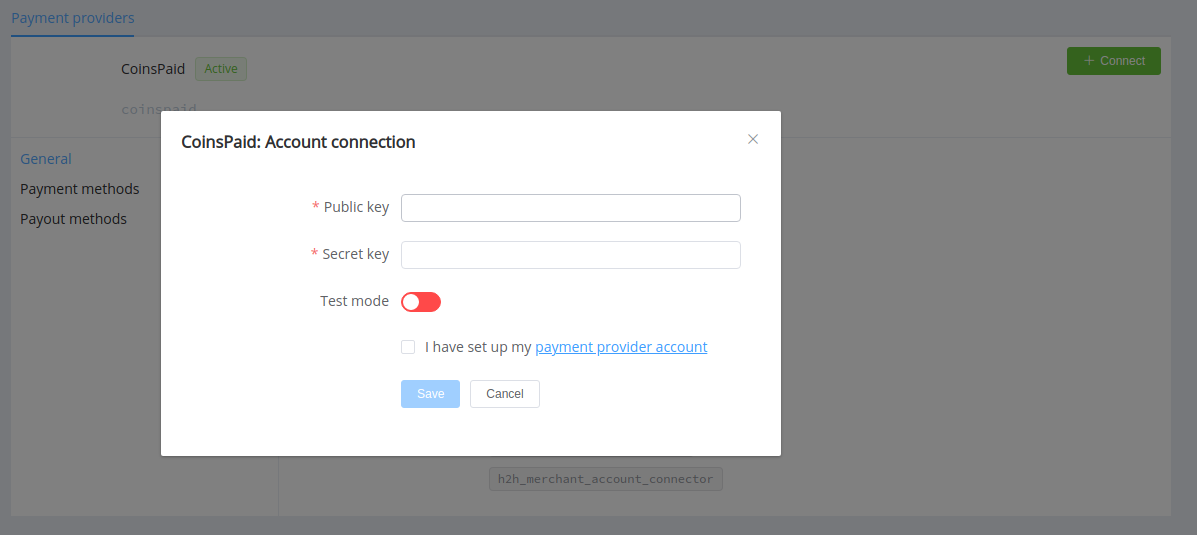
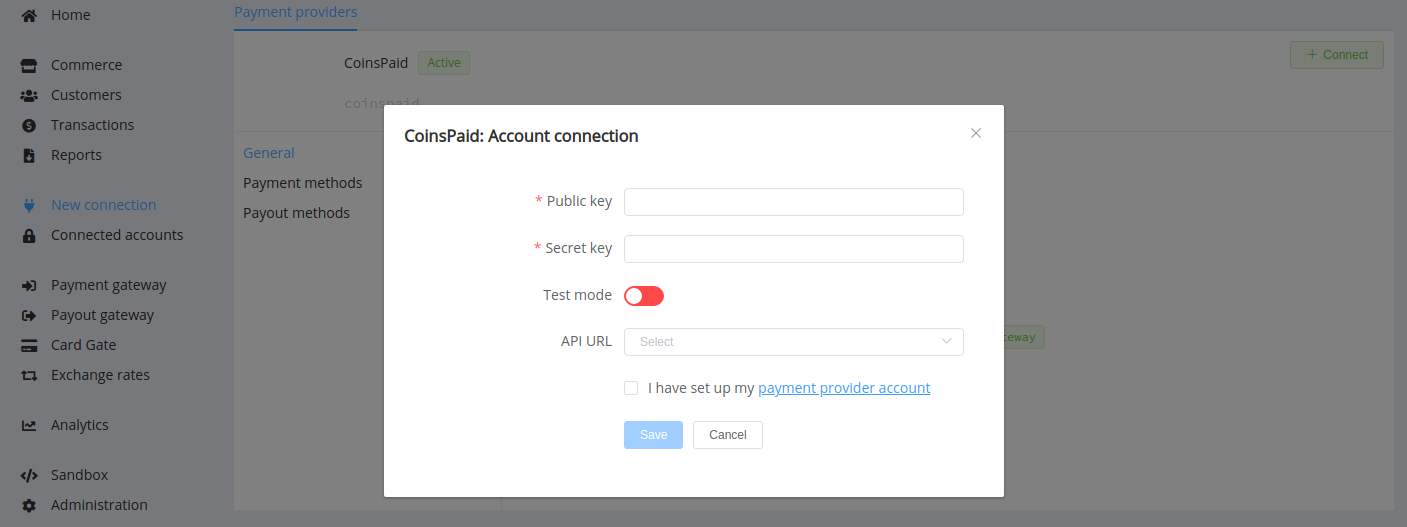
edit RN 1.28

diff --git a/docs/connectors/index.md b/docs/connectors/index.md
@@ -13,7 +13,7 @@ Click on the name of the desired connector and follow the link to the step-by-st
 
 ## List of Ready-Made Connections
 
-<!-- 23/12/2020: 97 connectors + Test + manual
+<!-- 18/01/2021: 100 connectors + Test + manual
 |                                                  Logo                                                  | Name                             | Supported Features                              |
 |:------------------------------------------------------------------------------------------------------:|:---------------------------------|:------------------------------------------------|
 |      <img src="https://static.openfintech.io/payment_providers/123x/logo.png?w=70" width="70px">       | [123x](123x/)                    | Payments                                        |
@@ -51,7 +51,7 @@ Click on the name of the desired connector and follow the link to the step-by-st
 | <img src="https://static.openfintech.io/payment_providers/easybits/logo.svg?w=100" width="100px"> | [EasyBits.io](easybits/) | Payments, Payouts, Account balances | [according to the provider account settings] |
 | <img src="https://static.openfintech.io/payment_providers/ecobanq/logo.png?w=70" width="70px"> | [Ecobanq](ecobanq/) | Payments, Payouts, Account balances | [according to the provider account settings] |
 | <img src="https://static.openfintech.io/payment_providers/ecommpay/logo.png?w=100" width="100px"> | [ECommPay](ecommpay/) | Payouts, Account balances | [according to the provider account settings] |
-| <img src="https://static.openfintech.io/payment_providers/ecopayz/logo.svg?w=70" width="70px">  | [ecoPayz](ecopayz/) | Payments, Payouts,  Account balances | AUD, BRL, CAD, EUR, GBP, INR, MDL, NGN, PLN, RUB, UAH, USD |
+| <img src="https://static.openfintech.io/payment_providers/ecopayz/logo.svg?w=70" width="70px">  | [ecoPayz](ecopayz/) | Payments, Payouts,  Account balances | AUD, BRL, CAD, EUR, GBP, INR, MDL, NGN, PLN, RUB, UAH, USD, UZS |
 | <img src="https://static.openfintech.io/payment_providers/epay/logo.png?w=70" width="70px"> | [ePay](epay/) | H2H connection, Payouts, Account balances  | UAH |
 | <img src="https://static.openfintech.io/payment_providers/exactly/logo.svg?w=70" width="70px"> | [exactly](exactly/) | H2H connection   | EUR, USD |
 | <img src="https://static.openfintech.io/payment_providers/flashpay/logo.png?w=80" width="80px"> | [FlashPay](flashpay/) | Payouts, Account balances | [according to the provider account settings] |
@@ -65,12 +65,13 @@ Click on the name of the desired connector and follow the link to the step-by-st
 | <img src="https://static.openfintech.io/payment_providers/ingbankpl/logo.svg?w=70" width="70px"> | [ING Bank Poland](ingbankpl/) | Payments   | [according to the provider account settings] |
 | <img src="https://static.openfintech.io/payment_providers/interkassa/logo.svg?w=80" width="80px"> | [Interkassa](interkassa/) | Payments, Payouts, Account balances | [according to the provider account settings] |
 | <img src="https://static.openfintech.io/payment_providers/ipaytotal/logo.png?w=80" width="80px"> | [IPayTotal](ipaytotal/) | H2H Connection  | EUR, INR, MXN, PLN, USD |
+| <img src="https://static.openfintech.io/payment_providers/kassa/logo.svg?w=70" width="70px">  | [Kassa](/connectors/kassa/) | Payouts, Account Balances  |
 | <img src="https://static.openfintech.io/payment_providers/klarna/logo.svg?w=90" width="90px"> | [Klarna](klarna/) | Payments | [according to the provider account settings] |
 | <img src="https://static.openfintech.io/payment_providers/kuna/logo.svg?w=70" width="70px"> | [Kuna](kuna/) | Payments, Payouts, Account balances  | [according to the provider account settings] |
 | <img src="https://static.openfintech.io/payment_providers/leogaming/logo.svg?w=80" width="80px"> | [LeoGaming](leogaming/) | Payouts, Account balances | [according to the provider account settings] |
 | <img src="https://static.openfintech.io/payment_providers/liqpay/logo.svg?w=70" width="70px">  | [LiqPay](liqpay/)  | H2H connection, Payments, Payouts, Account balances   | EUR, USD, UAH, RUB |
 | <img src="https://static.openfintech.io/payment_providers/manual/logo.svg?w=25" width="25px">  | [Manual](manual/) | manual connector for Swift and bank transfer methods | [according to the transfer parameters] |
-| <img src="https://static.openfintech.io/payment_providers/maxpay/logo.svg?w=90" width="90px">  | [Maxpay](maxpay/) | Payments, Payouts, Account balances | [according to the provider account settings] |
+| <img src="https://static.openfintech.io/payment_providers/maxpay/logo.svg?w=90" width="90px">  | [Maxpay](maxpay/) | H2H Connection, Payments, Payouts, Account balances | EUR, RUB, UAH, USD |
 | <img src="https://static.openfintech.io/payment_providers/mercuryo/logo.svg?w=90" width="90px">  | [mercuryo](mercuryo/)  | Payments | [according to the provider account settings] |
 |<img src="https://static.openfintech.io/payment_providers/mineexchange/logo.png?w=90" width="90px">    | [Mine.Exchange](mineexchange/) | Payments and Payouts | [according to the provider account settings] |
 | <img src="https://static.openfintech.io/payment_providers/muchbetter/logo.svg?w=90" width="90px"> | [MuchBetter](muchbetter/) | Payments, Payouts, Account balances | [according to the provider account settings] |
@@ -79,6 +80,7 @@ Click on the name of the desired connector and follow the link to the step-by-st
 | <img src="https://static.openfintech.io/payment_providers/offsetpay/logo.png?w=90" width="90px">  | [OffsetPay](offsetpay/)  | H2H connection | EUR, RUB, USD |
 | <img src="https://static.openfintech.io/payment_providers/parimatch/logo.svg?w=70" width="70px"> | [Parimatch](parimatch/) | Payouts, Account balances |  [according to the provider account settings] |
 | <img src="https://static.openfintech.io/payment_providers/paybox/logo.svg?w=70" width="70px"> | [Paybox](paybox/) | H2H connection, Payouts, Account balances  | KZT |
+| <img src="https://static.openfintech.io/payment_providers/paydoo/logo.png?w=70" width="70px"> | [Paydoo](paydoo/)  | H2H connection | EUR |
 | <img src="https://static.openfintech.io/payment_providers/payeer/logo.svg?w=70" width="70px"> | [Payeer](payeer/) | Payments, Payouts, Account balances  | BCH, BTC, DASH, ETH, EUR, LTC, RUB, USD |
 | <img src="https://static.openfintech.io/payment_providers/paylink/logo.png?w=70" width="70px"> | [Paylink](paylink/)  | H2H connection, Payouts, Account balances | UAH |
 | <img src="https://static.openfintech.io/payment_providers/paylogic/logo.png?w=70" width="70px">  | [Pay-logic](paylogic/)  | Payouts, Account balances | [according to the provider account settings] |
@@ -101,6 +103,7 @@ Click on the name of the desired connector and follow the link to the step-by-st
 | <img src="https://static.openfintech.io/payment_providers/rapyd/logo.svg?w=70" width="70px"> | [Rapyd.net](rapyd/) | Payouts, Account balances  | [according to the provider account settings] |
 | <img src="https://static.openfintech.io/payment_providers/rbkmoney/logo.png?w=70" width="70px">  | [RBK Money](rbkmoney/) | H2H connection, Payouts, Account balances   | EUR, RUB, USD |
 | <img src="https://static.openfintech.io/payment_providers/royalpay/logo.svg?w=90" width="90px"> | [Royal Pay](royalpay/) | H2H connection, Payouts, Account balances | RUB |
+| <img src="https://static.openfintech.io/payment_providers/russianstandardbank/logo.png?w=70" width="70px">  | [Russian Standard Bank](russianstandardbank/) | H2H connection | RUB |
 | <img src="https://static.openfintech.io/payment_providers/safecharge/logo.svg?w=90" width="90px"> | [SafeCharge](safecharge/) | H2H connection, Payouts | AUD, CAD, EUR, GBP, USD |
 | <img src="https://static.openfintech.io/payment_providers/satchelpay/logo.svg?w=90" width="90px"> | [SatchelPay](satchelpay/)  | Payouts, Account balances | [according to the provider account settings] |
 | <img src="https://static.openfintech.io/payment_providers/selcom/logo.png?w=70" width="70px">  | [Selcom](selcom/) | Payments, Payouts, Account balances | [according to the provider account settings] |

diff --git a/docs/release-notes/v1.28.md b/docs/release-notes/v1.28.md
@@ -17,17 +17,50 @@ But firstly, the important news:
 
 ## Highlights
 
-* 
+* [Payout Schemes optimisation](#payout-schemes-update): at payout splitting, the system examines routes' limits and remaining amounts for each following parts
+* [Manual card transaction handling](#card-gate-update)
+* [New and updated integrations](#new-integrations): CoinsPaid, dLocal, Ibox Bank, Kassa, MaxPay, Russian Standard Bank
 * [Other fixes and improvements](#fixes-and-improvements)
 
 ## In the Details
+
+### Payout Schemes Update
+
+Our dev team fixed an issue when the remaining amount after payout splitting on peer-to-peer routes was lower than the minimum amount limit and could not be paid. So now, the system examines routes' limits and remaining amounts for each following parts to choose the optimal alternative. And the last payout is sent:
+
+* by a p2p route within amount limits,
+* or with the remaining amount by a non-p2p route if no feasible p2p route is found.
+
+### Card Gate Update
+
+Good news to your support engineers! We added the option for manual correction of transaction statuses.
+
+And, if for any reason you find differences between card transaction statuses at PayCore.io log system and payment provider information, you can use the *'+ Add transaction'* button to fix that.
+
+![Transaction: Created](images/v1.28/add-transaction-status2.png)
+![Transaction: Processed](images/v1.28/add-transaction-status.png)
+
+You can indicate that the amount has been partially refunded (partially processed or charged back), update description, add the provider's original transaction ID, approval code, or RRN.
+
+![Add refund amount](images/v1.28/add-transaction-refund.png)
+
+And at setting status `fail`, or `expired`, you can choose the proper resolution.
+
+![Add fail status](images/v1.28/add-transaction-fail.png)
 
 ### New Integrations
 
 | Provider | Name  | New features |
 |:-:|:-:|:-:|
 | <img src="https://static.openfintech.io/payment_providers/coinspaid/logo.svg?w=70" width="70px">  | [CoinsPaid](/connectors/coinspaid/) | Payments  |
+| <img src="https://static.openfintech.io/payment_providers/dlocal/logo.svg?w=70" width="70px"> | [dLocal](dlocal/) | Reconciliation flow update\* |
+| <img src="https://static.openfintech.io/payment_providers/iboxbank/logo.png?w=50" width="50px">  | [Ibox Bank](/connectors/iboxbank/) | Payouts |
+| <img src="https://static.openfintech.io/payment_providers/kassa/logo.svg?w=70" width="70px">  | [Kassa](/connectors/kassa/) | Payouts, Account Balances  |
+| <img src="https://static.openfintech.io/payment_providers/maxpay/logo.svg?w=90" width="90px">  | [MaxPay](/connectors/maxpay/) | Host-to-host connection  |
+| <img src="https://static.openfintech.io/payment_providers/russianstandardbank/logo.png?w=80" width="80px">  | [Russian Standard Bank](russianstandardbank/) | H2H connection |
 
+!!! info ""
+    \* We added an extra check to the dLocal reconciliation flow because the provider can put transaction creation to the waiting list queue up to 5 minutes after receiving the request.
 
 ### Fixes and Improvements
 

diff --git a/docs/release-notes/index.md b/docs/release-notes/index.md
@@ -4,6 +4,13 @@
 
 This changelog lists releases by date and version number, along with associated changes.
 
+## [v1.28 05/01/2021](v1.28/)
+
+* [Payout Schemes optimisation](v1.28/#payout-schemes-update): at payout splitting, the system examines routes' limits and remaining amounts for each following parts
+* [Manual card transaction handling](v1.28/#card-gate-update)
+* [New and updated integrations](v1.28/#new-integrations): CoinsPaid, dLocal, Ibox Bank, Kassa, MaxPay, Russian Standard Bank
+* [Other fixes and improvements](v1.28/#fixes-and-improvements)
+
 ## [v1.27 22/12/2020](v1.27/)
 
 * [Increased Metadata limit](v1.27/#metadata-update) up to 20 attributes

diff --git a/docs/connectors/coinspaid/index.md b/docs/connectors/coinspaid/index.md
@@ -48,7 +48,7 @@ Enter credentials:
 * activated API Key --> Public Key
 * API Secret --> Secret Key
 
-Also, choose Test Mode if you want to test connection with CoinsPaid. Choose 
+Also, choose Test Mode if you want to test connection with CoinsPaid. Choose API URL that your CoinsPaid account uses.
 
 !!! success
     You have connected **CoinsPaid** account!
